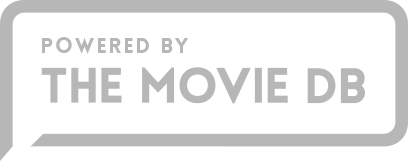
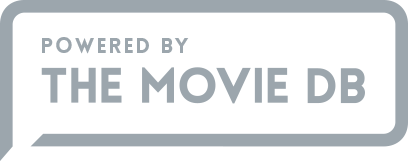
New theme colors. Much better looking

diff --git a/app/styles/app.css b/app/styles/app.css
@@ -1,20 +1,33 @@
 body { 
     padding-top: 82px;
+    background-color: #d0dde6;
+}
+
+.search-form {
+ margin: 0.9% 8px 8px 10%; 
+ padding: 0px 0px 0px 8px;
+ background: rgba(255,255,255,.13);
+}
+
+.search-input {
+    color: white; 
+    background: rgba(255,255,255,.00) !important;
+    margin-bottom: 0px !important;
 }
 
 footer {
     margin-top: 40px;
     padding-top: 40px;
-    border-top: 3px solid #c7c7c7;
-    background-color: #d8d8d8;
+    border-top: 3px solid #abb5bd;
+    background-color: #bcc7cf;
     padding-bottom: 20px;
-    color: #aaaaaa;
+    color: #9ca6ad;
 }
 footer a {
-    color: #aaaaaa;
+    color: #9ca6ad;
 }
 footer a:hover {
-   color: #607D8B;
+   color: #09314b;
 }
 
 .poster {
@@ -54,11 +67,11 @@ footer a:hover {
 }
 
 .navbar-default {
-    background-color: #607D8B !important;
+    background-color: #09314b !important;
 }
 
 .panel-primary>.panel-heading {
-    background-color: #455A64 !important;
+    background-color: #09314b !important;
 }
 
 .panel-body#imdbRating, .panel-body#avgUserRating  {
@@ -66,11 +79,11 @@ footer a:hover {
 }
 
 .btn-primary.btn-raised {
-    background-color: #455A64 !important;
+    background-color: #09314b !important;
 }
 
 .btn-primary#createUser {
-    color: #455A64 !important;
+    color: #09314b !important;
 }
 
 .btn img {
